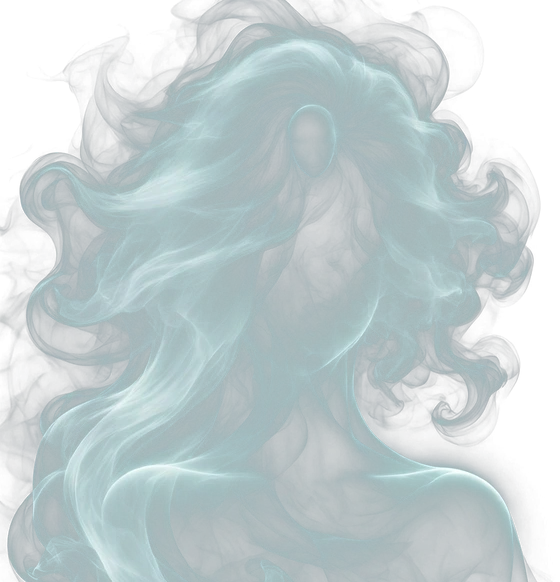
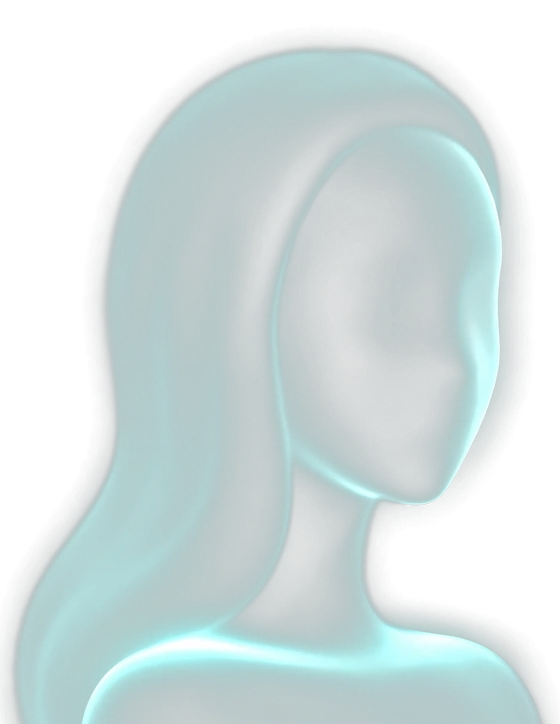
Silhouette v10: smooth wavy hair, 3/4 face, bright shoulders (user order 2026-11-28)
The user rejected v9 too and sent a CLEARER close-up reference
(1000051941) with the order to look carefully first. The careful
re-look (zoomed crops of both figures at the same scale) showed the
real gaps in v9: v9's hair was SWIRLY SMOKE CURLS, but the
reference's hair is SMOOTH BROAD GENTLE WAVES; v9's face was
front-facing, but the reference's face is THREE-QUARTER VIEW turned
right, a soft shadowed oval with a bright rim on its right edge;
v9's hair flowed far below the shoulders, but the reference is a
COMPACT BUST — hair ending at the shoulders, with WIDE BRIGHT
shoulders carrying a band of light.

This version is a new generation matching exactly that, with its
dark face oval gently lightened in post so it glows softly like the
reference, cropped to the complete bust (head + hair + shoulders
with the bright band visible above the bottom bar). Black converted
to transparency (luminance -> alpha, lift 1.0, cap 200) so the mist
stays faint and ghostly. The image URL carries "?v=10" so his
browser must fetch the new image and can never show a stale cached
one. The figure height stays 230px (an attempt at 272px to show more
of the shoulders pushed the date bar below the fold — reverted, and
the date bar is verified back in place).

Verified twice: client build RC=0; server HTTP 200 on :5000;
silhouette-mist.webp?v=10 serves HTTP 200; live renders at 1366x768
(15/15 checks, 0 page errors) x2, each judged against the new
[…]

diff --git a/client/src/components/SilhouetteAvatar.tsx b/client/src/components/SilhouetteAvatar.tsx
@@ -21,6 +21,19 @@
  * tests. So this version is fixed FIRST and verified against the
  * reference with my own eyes before he is asked to test it.)
  *
+ * v10 (2026-11-28): the user sent a CLEARER close-up reference
+ * (1000051941) and the careful re-look showed the real gaps in v9:
+ * v9's hair was swirly smoke curls, but the reference's hair is
+ * SMOOTH BROAD GENTLE WAVES; v9's face was front-facing, but the
+ * reference's face is THREE-QUARTER VIEW turned right, a soft
+ * shadowed oval with a bright rim on its right edge; v9's hair
+ * flowed far below the shoulders, but the reference is a COMPACT
+ * BUST — hair ending at the shoulders. The v10 image is a new
+ * generation matching exactly that, with its dark face oval gently
+ * lightened in post so it glows softly like the reference. The
+ * "?v=10" on the URL is a cache-buster: his browser must fetch the
+ * new image, never a stale cached one.
+ *
  * She MOVES, gently and continuously (pure CSS animation, see .usil-*
  * in index.css): slow breathing glow (~7s) and one slow drift of the
  * whole mist (~11s). While she speaks the glow pulses a little faster.
@@ -44,7 +57,7 @@ export default function SilhouetteAvatar({
       <div className="usil-halo" aria-hidden="true" />
       <div className="usil-breathe">
         <div className="usil-drift">
-          <img src="/silhouette-mist.webp" className="usil-img" alt="" draggable={false} />
+          <img src="/silhouette-mist.webp?v=10" className="usil-img" alt="" draggable={false} />
         </div>
       </div>
     </div>
